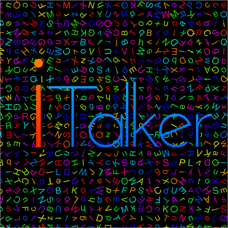
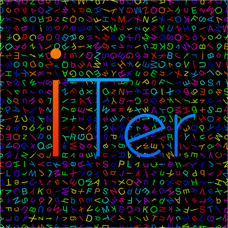
启用新的iTer应用名字和logo。

diff --git a/iTalker/iTalker/Class/ViewController/ITAboutAppVC.swift b/iTalker/iTalker/Class/ViewController/ITAboutAppVC.swift
@@ -40,7 +40,7 @@ extension ITAboutAppVC
         self.logoImgView.layer.masksToBounds = true
         self.appNameLbl.text = kiTalker
         self.versionLbl.text = "v" + KAppVersion
-        self.contentLbl.text = "iTalker 为一款IT工程师们提供知识充电的应用，IT知识学习、面试必备的工具，不断努力打造更多更好方式呈现更有趣的知识，让大家在零碎时间也可以快速和简单的学习get! \n \n 1、10000+题目库，满足你的求知欲！\n2、IT企业面试题目，为你完名企的梦！\n3、IT知识内容，为你准备好的面试！"
+        self.contentLbl.text = "\(kiTalker) 为一款IT工程师们提供知识充电的应用，IT知识学习、面试必备的工具，不断努力打造更多更好方式呈现更有趣的知识，让大家在零碎时间也可以快速和简单的学习get! \n \n 1、10000+题目库，满足你的求知欲！\n2、IT企业面试题目，为你完名企的梦！\n3、IT知识内容，为你准备好的面试！"
         self.copylightLbl.text = "Copyright © 2017 " + "iHTCboy"
     }
 }

diff --git a/iTalker/iTalker/Class/ViewController/ITProgrammerVC.swift b/iTalker/iTalker/Class/ViewController/ITProgrammerVC.swift
@@ -37,7 +37,7 @@ class ITProgrammerVC: UIViewController {
     
     fileprivate var titles = ["0":"图片题库:真实公司面试题目",
                               "1": "应用内评分:欢迎给\(kiTalker)打评分！,AppStore评价:欢迎给\(kiTalker)写评论!,分享给朋友:与身边的好友一起分享！",
-                              "2":"意见反馈:欢迎到AppStore提需求或bug问题,邮件联系:如有问题欢迎来信,开源地址:未来逐步开放代码，欢迎关注,关于应用:iTalker"] as [String : String]
+                              "2":"意见反馈:欢迎到AppStore提需求或bug问题,邮件联系:如有问题欢迎来信,开源地址:未来逐步开放代码，欢迎关注,关于应用:\(kiTalker)"] as [String : String]
 
 }
 

diff --git a/iTalker/iTalker/Class/AppDelegate.swift b/iTalker/iTalker/Class/AppDelegate.swift
@@ -62,7 +62,7 @@ extension AppDelegate {
             statTracker?.channelId = "AppStore"
             statTracker?.shortAppVersion = Bundle.main.infoDictionary?["CFBundleShortVersionString"] as! String
             statTracker?.start(withAppId: "0f4db57bb7")
-            statTracker?.logEvent("usermodelName", eventLabel: UIDevice.modelName)
+            statTracker?.logEvent("usermodelName", eventLabel: UIDevice.init().modelName)
         #endif
         //         statTracker.enableDebugOn = true;
         

diff --git a/iTalker/iTalker/Class/Common/CommonDefine.swift b/iTalker/iTalker/Class/Common/CommonDefine.swift
@@ -10,7 +10,7 @@ import UIKit
 
 
 // 常量
-let kiTalker = "iTalker"
+let kiTalker = "iTer"
 let kAppAppleId = "1224934068"
 let kAppDownloadURl = "https://itunes.apple.com/us/app/italker-it%E5%AD%A6%E4%B9%A0-%E6%B1%82%E8%81%8C%E9%9D%A2%E8%AF%95%E5%BF%85%E5%A4%87/id1224934068?l=zh&ls=1&mt=8"
 let kReviewAction = "&action=write-review"
